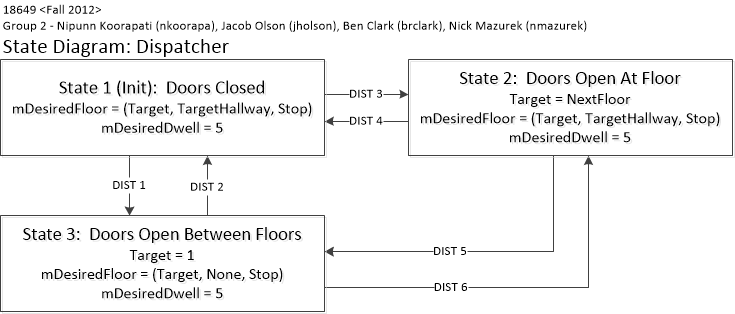
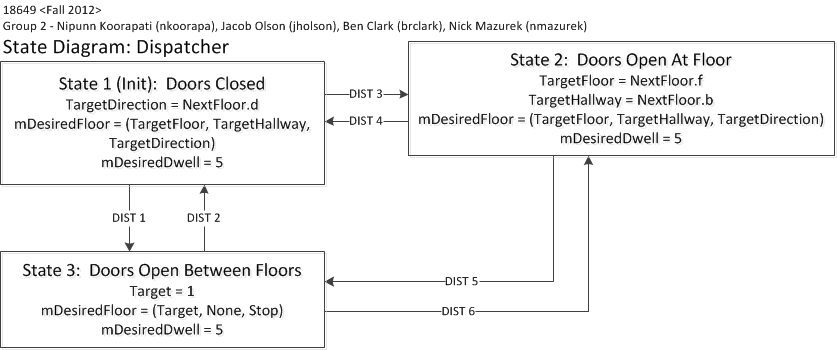
Changed requirements for dispatcher and changed states

Changed region(s): [[0.0, 0.0, 1.0, 1.0]]

diff --git a/portfolio/reqs/requirements2.html b/portfolio/reqs/requirements2.html
@@ -2939,25 +2939,49 @@ below Lobby (1). </li>
 <h3> State: </h3>
 <ul>
   <li>
-    Target: an integer Floor number for desired Floor, initialized to Lobby =
-    1.
+    TargetFloor: an integer Floor number for desired Floor, initialized 
+    to Lobby = 1.
   </li>
   <li>
-    TargetHallway: a macro that takes the values {FRONT,BACK,BOTH,NONE}. It
-    always represents the landings that are available at floor Target.
+    TargetHallway: State variable that represents the next desired hallway 
+    given a car call or hall call.
   </li>
+  <li>
+    TargetDirection: State variable that represents the desired
+    direction of travel after you reach TargetFloor.
   <li>
     CurrentFloor, is a shorthand notation for the value of whichever
     mAtFloor[f, b] is True, if any. If CurrentFloor is invalid it has a
     mnemonic value of None.
   </li>
   <li>
-    NextFloor is a macro that takes an integer value. It computes the nearest
-    floor in the direction that the car is moving such that the CommitPoint is
-    NotReached and there is either a HallCall or a CarCall for that floor. If
-    there is no such floor in that direction, then the same computations are
-    made for the opposite direction. If neither are true then it evaluates to
-    CurrentFloor.  If CurrentFloor is none, it evaluates to 1.
+    NextFloor is a macro. Outputs: (f,b,d)
+    <ul>
+      <li>
+        It computes the nearest floor in the direction that 
+        the car is moving such that the CommitPoint is NotReached and there is 
+        either a CarCall or a HallCall in the same direction of travel.
+        Set <b>d</b> field to direction of travel.
+      </li>
+      <li>
+        If there is no such floor in the direction, then it computes the furthest
+        floor in the direction of travel such that there is a HallCall (in the
+        opposite direction). 
+        Set <b>d</b> field to opposite direction of travel.
+      </li>
+      <li>
+        If no such floor exists, then the same computations are made for 
+        the opposite direction. 
+      </li>
+      <li>
+        If none are true then it evaluates to CurrentFloor.  
+        Set <b>d</b> field to Stop.
+      </li>
+      <li>
+        If CurrentFloor is none, it evaluates to 1.
+        Set <b>d</b> field to Stop.
+      </li>
+    </ul>
   </li>
   <li>
     CommitPoint[f](v); v = {Reached, NotReached} calculated based on
@@ -2969,7 +2993,7 @@ below Lobby (1). </li>
 <h3> CONSTRAINTS: </h3>
 <ul>
   <li>
-    11.1&nbsp; Target shall be a valid Floor number from 1 ..
+    11.1&nbsp; TargetFloor shall be a valid Floor number from 1 ..
     MaxFloor inclusive.<br>
   </li>
   <li>
@@ -2984,49 +3008,49 @@ below Lobby (1). </li>
 <h3> TIME-TRIGGERED BEHAVIORS: </h3>
 <ul>
   <li>
-    11.4&nbsp; mDesiredFloor.f shall always be set to Target.f.<br>
+    11.4&nbsp; mDesiredFloor.f shall always be set to TargetFloor.<br>
   </li>
   <li>
-    11.5&nbsp; mDesiredFloor.d shall always be set to Target.d.<br>
+    11.5&nbsp; mDesiredFloor.d shall always be set to TargetDirection.<br>
   </li>
   <li>
-    11.6&nbsp; Whenever any mDoorClosed [b, r] is False, then<br>
+    11.6&nbsp; mDesiredFloor.b shall always be set to TargetHallway.<br />
+  </li>
+  <li>
+    11.7&nbsp; Whenever any mDoorClosed [b, r] is False, then<br>
   </li>
   <ul>
     <li>
-      11.6.1&nbsp; Target.f
-      shall be set equal to NextFloor.f<br>
+      11.7.1&nbsp; TargetFloor shall be set to NextFloor.f<br>
     </li>
     <li>
-      11.6.2&nbsp; mDesiredFloor.b shall
+      11.7.2&nbsp; TargetHallway shall be set to NextFloor.b<br />
+    <li>
+      11.7.3&nbsp; mDesiredFloor.b shall
       be set to b, where f, b is whichever mAtFloor[f, b] is True<br>
     </li>
   </ul>
   <li>
-    11.7&nbsp; If all mAtFloor[f, b] are False AND any mDoorClosed [b, r]
+    11.8&nbsp; If all mAtFloor[f, b] are False AND any mDoorClosed [b, r]
     is False (which means doors are not
     closed between floors!); then<br>
   </li>
   <ul>
     <li>
-      11.7.1&nbsp; Target shall be set to 1<br>
+      11.8.1&nbsp; TargetFloor shall be set to 1<br>
     </li>
     <li>
-      11.7.2&nbsp; mDesiredFloor.b
+      11.8.2&nbsp; mDesiredFloor.b
       shall be set to None .<br>
     </li>
   </ul>
-  <li>
-    11.8&nbsp; If two mAtFloor[f, b] values are True with the same value
-    f, then mDesiredFloor.b shall be set to Both.<br>
-  </li>
   <li>
     11.9&nbsp; mDesiredDwell shall always be set to a constant
     appropriate value for door open dwell.
   </li>
   <li>
-    11.10&nbsp; Whenever all mDoorClosed[b,r] are True, then Target.d shall be
-    set to NextFloor.d
+    11.10&nbsp; Whenever all mDoorClosed[b,r] are True, then TargetDirection
+    shall be set to NextFloor.d
   </li>
 </ul>
 <h3>STATE DIAGRAM</h3>
